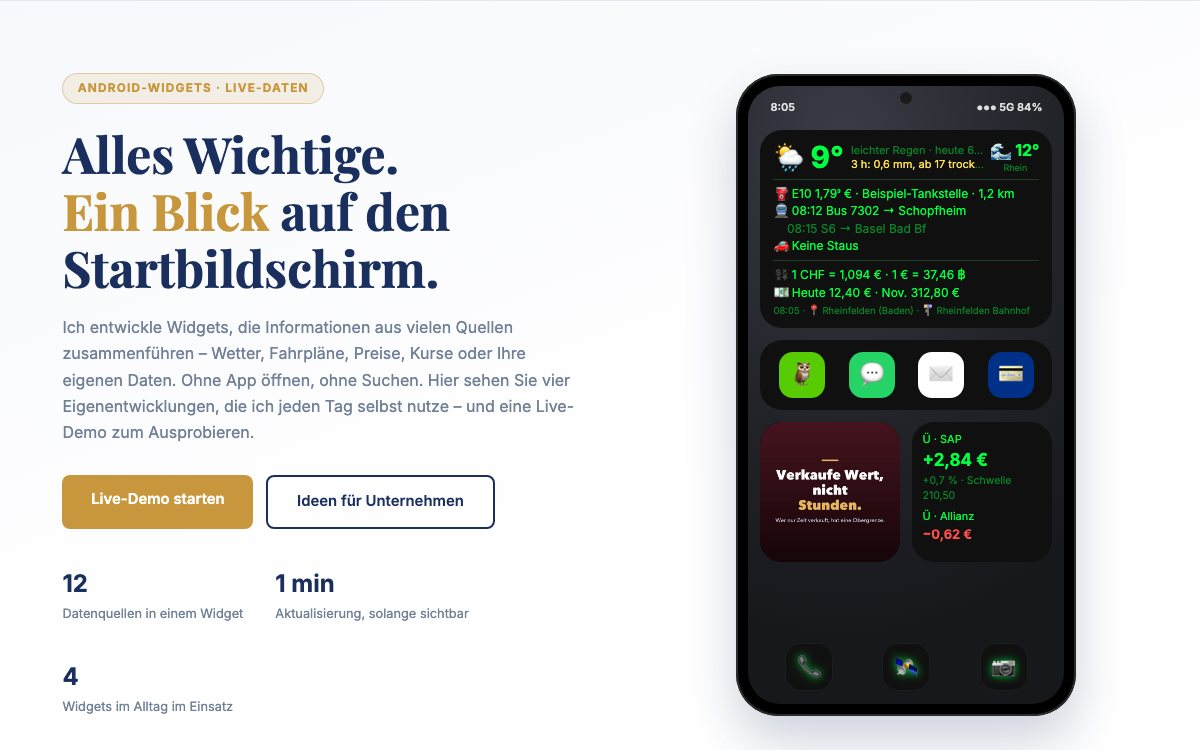
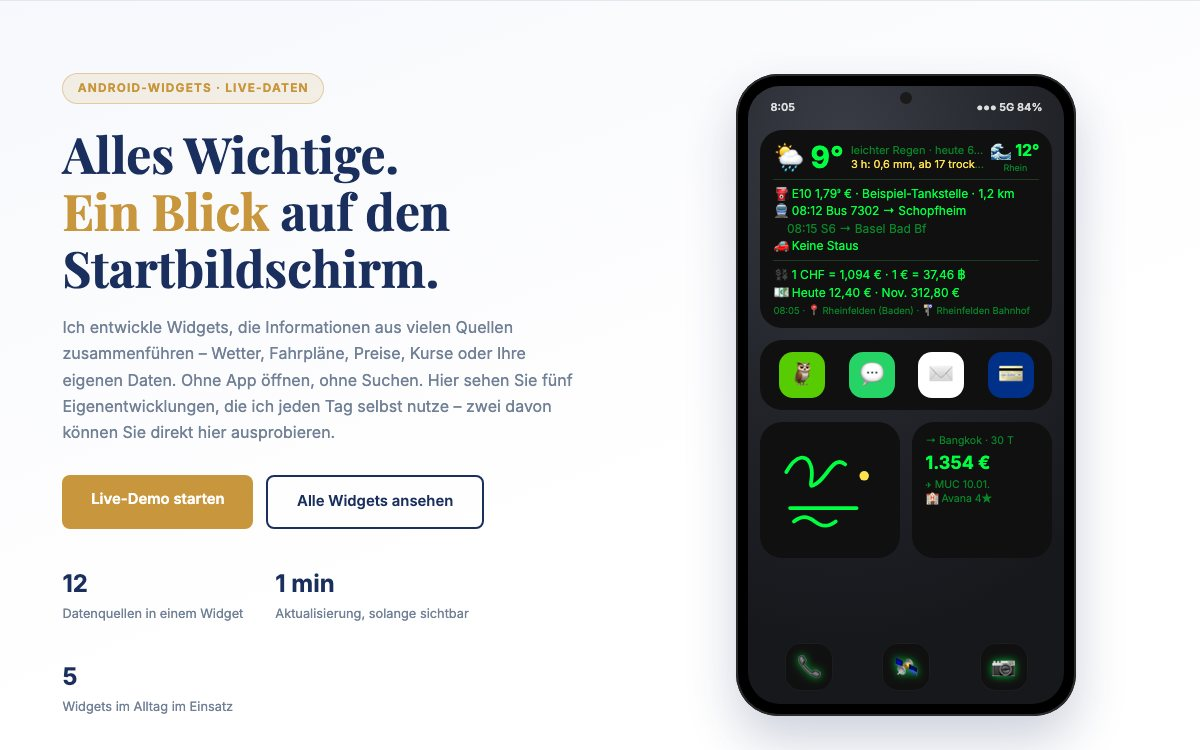
Widget-Seite: Whiteboard (zum Ausprobieren) und Reise-Planer statt Trades und Unternehmens-Beispielen

diff --git a/widgets/index.html b/widgets/index.html
@@ -128,25 +128,25 @@
   .app.done small { color: var(--w-green); }
   @keyframes spin { to { transform: rotate(360deg); } }
 
-  /* Trades */
-  .trade-w .row { display: flex; justify-content: space-between; gap: 8px; align-items: baseline; margin-top: 7px; }
-  .trade-w .name { color: var(--w-green); font-size: 13px; }
-  .trade-w .pl { font-weight: 700; font-size: 13px; }
-  .trade-w .det { color: var(--w-dark); font-size: 10.5px; }
-  .trade-w .total { font-size: 21px; font-weight: 700; }
-  .neg { color: var(--w-red) !important; } .pos { color: var(--w-green) !important; }
+  /* Whiteboard */
+  .board-wrap { position: relative; aspect-ratio: 1; border-radius: 22px; overflow: hidden; background: var(--w-bg); touch-action: none; }
+  #board { width: 100%; height: 100%; display: block; cursor: crosshair; touch-action: none; }
+  .board-hint { position: absolute; left: 0; right: 0; bottom: 10px; text-align: center; color: var(--w-dark); font-size: 12px; pointer-events: none; transition: opacity .3s; }
+  .board-tools { display: flex; gap: 6px; align-items: center; justify-content: center; background: #101010; border: 1px solid var(--w-line); border-radius: 20px; padding: 6px 8px; }
+  .board-tools button { width: 20px; height: 20px; border-radius: 50%; border: 2px solid transparent; cursor: pointer; padding: 0; }
+  .board-tools button.sel { border-color: #fff; }
+  .board-tools button.tool { background: none; width: 26px; font-size: 15px; border: none; }
+  .board-tools button.tool.sel { outline: 1px solid var(--w-green); border-radius: 8px; }
+  .board-mini svg { width: 100%; display: block; }
 
-  /* Für Unternehmen */
-  .biz { background: var(--bg); }
-  .biz-grid { display: grid; grid-template-columns: repeat(auto-fill, minmax(240px, 1fr)); gap: 1.4rem; }
-  .biz-card { background: #fff; border: 1px solid var(--border); border-radius: var(--radius); padding: 1.2rem; box-shadow: var(--shadow); }
-  .biz-card h4 { color: var(--navy); margin: .9rem 0 .3rem; }
-  .biz-card p { font-size: .87rem; color: var(--muted); }
-  .mini { background: var(--w-bg); color: var(--w-green); border-radius: 16px; padding: 11px 12px; font-size: 12px; line-height: 1.5; }
-  .mini b { font-size: 15px; }
-  .mini .muted { color: var(--w-dark); }
-  .meter { height: 7px; background: #1d1d1d; border-radius: 4px; overflow: hidden; margin: 5px 0 3px; }
-  .meter i { display: block; height: 100%; background: var(--w-green); border-radius: 4px; }
+  /* Reise-Planer */
+  .trip-w .rt { color: var(--w-dark); font-size: 10.5px; display: flex; justify-content: space-between; }
+  .trip-w .c { margin-top: 7px; padding-top: 6px; border-top: 1px solid var(--w-line); }
+  .trip-w .c:first-of-type { border-top: 0; padding-top: 0; }
+  .trip-w .t { font-weight: 700; font-size: 13.5px; white-space: nowrap; overflow: hidden; text-overflow: ellipsis; }
+  .trip-w .d { color: #b0b0b0; font-size: 10.5px; white-space: nowrap; overflow: hidden; text-overflow: ellipsis; }
+  .trip-mini b { font-size: 18px; display: block; margin: 2px 0; }
+  .trip-mini .muted, .trip-w .muted { color: var(--w-dark); font-size: 10.5px; line-height: 1.35; }
 
   /* Ablauf */
   .steps { display: grid; grid-template-columns: repeat(auto-fit, minmax(230px, 1fr)); gap: 1.4rem; counter-reset: s; }
@@ -188,7 +188,6 @@
     <ul class="nav-links">
       <li><a href="#live">Live-Demo</a></li>
       <li><a href="#beispiele">Beispiele</a></li>
-      <li><a href="#unternehmen">Für Unternehmen</a></li>
       <li><a href="/#kontakt" class="nav-cta">Kontakt</a></li>
     </ul>
   </div>
@@ -200,15 +199,15 @@
     <div>
       <div class="hero-badge">Android-Widgets · Live-Daten</div>
       <h1>Alles Wichtige.<br><span>Ein Blick</span> auf den Startbildschirm.</h1>
-      <p>Ich entwickle Widgets, die Informationen aus vielen Quellen zusammenführen – Wetter, Fahrpläne, Preise, Kurse oder Ihre eigenen Daten. Ohne App öffnen, ohne Suchen. Hier sehen Sie vier Eigenentwicklungen, die ich jeden Tag selbst nutze – und eine Live-Demo zum Ausprobieren.</p>
+      <p>Ich entwickle Widgets, die Informationen aus vielen Quellen zusammenführen – Wetter, Fahrpläne, Preise, Kurse oder Ihre eigenen Daten. Ohne App öffnen, ohne Suchen. Hier sehen Sie fünf Eigenentwicklungen, die ich jeden Tag selbst nutze – zwei davon können Sie direkt hier ausprobieren.</p>
       <div class="hero-actions">
         <a href="#live" class="btn btn-primary">Live-Demo starten</a>
-        <a href="#unternehmen" class="btn btn-outline">Ideen für Unternehmen</a>
+        <a href="#beispiele" class="btn btn-outline">Alle Widgets ansehen</a>
       </div>
       <div class="hero-facts">
         <div><strong>12</strong>Datenquellen in einem Widget</div>
         <div><strong>1 min</strong>Aktualisierung, solange sichtbar</div>
-        <div><strong>4</strong>Widgets im Alltag im Einsatz</div>
+        <div><strong>5</strong>Widgets im Alltag im Einsatz</div>
       </div>
     </div>
     <div class="hero-phone">
@@ -222,10 +221,8 @@
           <div class="app todo"><div class="ico" style="background:#003087">💳</div></div>
         </div>
         <div style="display:grid;grid-template-columns:1fr 1fr;gap:12px">
-          <div class="photo-w"><img src="img/11_wert.jpg" alt="" class="on"></div>
-          <div class="w trade-w" style="padding:10px"><div class="name" style="font-size:11px">Ü · SAP</div>
-            <div class="pl pos" style="font-size:17px">+2,84 €</div><div class="det">+0,7 % · Schwelle 210,50</div>
-            <div class="name" style="font-size:11px;margin-top:6px">Ü · Allianz</div><div class="pl neg">−0,62 €</div></div>
+          <div class="w board-mini"><svg viewBox="0 0 120 120"><path d="M14 40c10-18 22-20 26-6s-6 26 6 18 18-30 30-20M18 78h70M22 92c8-6 14-6 22 0s14 6 22 0" fill="none" stroke="#00FF41" stroke-width="4" stroke-linecap="round"/><circle cx="96" cy="44" r="5" fill="#FFE14D"/></svg></div>
+          <div class="w trip-mini"><div class="muted">→ Bangkok · 30 T</div><b>1.354 €</b><div class="muted">✈ MUC 10.01.<br>🏨 Avana 4★</div></div>
         </div>
         <div class="dock"><span><i>📞</i></span><span><i>🛰</i></span><span><i>📷</i></span></div>
       </div></div>
@@ -276,10 +273,55 @@
 <section id="beispiele">
   <div class="container">
     <div class="section-tag">Eigenentwicklungen</div>
-    <h2 class="section-title">Drei weitere Widgets aus meinem Alltag</h2>
+    <h2 class="section-title">Vier weitere Widgets aus meinem Alltag</h2>
     <p class="section-sub">Jedes ist aus einem echten Bedürfnis entstanden – genau so, wie Kundenprojekte entstehen. Alle laufen täglich auf meinem Smartphone; sie sind Eigenentwicklungen und nicht im Play Store. Probieren Sie die Vorschauen aus.</p>
 
     <div class="cases">
+      <div class="case">
+        <div class="case-phone"><div class="phone"><div class="screen">
+          <div class="statusbar"><span>09:12</span><span>●●● 5G 88%</span></div>
+          <div class="board-wrap">
+            <canvas id="board" aria-label="Whiteboard zum Ausprobieren"></canvas>
+            <div class="board-hint" id="boardHint">✎ Hier schreiben</div>
+          </div>
+          <div class="board-tools" id="boardTools">
+            <button data-c="#00FF41" class="sel" aria-label="Grün"></button><button data-c="#FFFFFF" aria-label="Weiß"></button><button data-c="#00CCFF" aria-label="Blau"></button><button data-c="#FFE14D" aria-label="Gelb"></button><button data-c="#FF4D4D" aria-label="Rot"></button>
+            <button data-t="erase" class="tool" aria-label="Radieren">🧽</button><button data-t="clear" class="tool" aria-label="Alles löschen">🗑</button>
+          </div>
+          <div class="dock"><span><i>📞</i></span><span><i>🛰</i></span><span><i>📷</i></span></div>
+        </div></div></div>
+        <div>
+          <div class="case-tag">Whiteboard · zum Ausprobieren</div>
+          <h3>Notizen mit dem Stift – direkt auf dem Startbildschirm</h3>
+          <p>Stift raus, aufs Widget tippen, schreiben. Die Tafel öffnet sich genau an der Stelle des Widgets, als würde man direkt darauf schreiben. Alles wird sofort gespeichert und bleibt bearbeitbar – fertige Notizen landen im Archiv und als Bild in der Galerie.</p>
+          <ul>
+            <li>Druckstärke des Stifts, Handballen wird ignoriert</li>
+            <li>Radieren mit der Stifttaste, Rückgängig, fünf Farben</li>
+            <li>Archiv: alte Tafeln wieder öffnen und weiterschreiben</li>
+          </ul>
+          <span class="try">Probieren Sie es im Handy aus – mit Maus, Finger oder Stift.</span>
+        </div>
+      </div>
+
+      <div class="case">
+        <div class="case-phone"><div class="phone"><div class="screen">
+          <div class="statusbar"><span>07:00</span><span>●●● 5G 93%</span></div>
+          <div class="w trip-w" id="tripW"></div>
+          <div class="dock"><span><i>📞</i></span><span><i>🛰</i></span><span><i>📷</i></span></div>
+        </div></div></div>
+        <div>
+          <div class="case-tag">Reise-Planer</div>
+          <h3>Flug und Unterkunft – als Gesamtreise verglichen</h3>
+          <p>Frühester Abflug, Zeitfenster und Aufenthaltsdauer einstellen – zum Beispiel 30 Tage Bangkok, Abflug irgendwann zwischen Ende Dezember und Ende Januar. Der Planer sucht täglich die günstigsten Flüge ab allen gewählten Flughäfen, prüft sie live, erkennt den tatsächlichen Ankunftstag und sucht für genau diesen Aufenthalt passende Hotels. Ganz oben steht die günstigste Gesamtreise.</p>
+          <ul>
+            <li>Flüge aus mehreren Quellen, die besten live bei Google Flights geprüft</li>
+            <li>Hotels über alle großen Portale – nach Sternen, Preis und Lage gefiltert</li>
+            <li>Täglich aktualisiert, Preisalarm unter dem eigenen Budget</li>
+          </ul>
+          <span class="try">Im Handy: echte Suche vom 10.11.2026 – München/Berlin → Bangkok, 30 Tage.</span>
+        </div>
+      </div>
+
       <div class="case">
         <div class="case-phone"><div class="phone"><div class="screen">
           <div class="statusbar"><span>21:14</span><span>●●● 5G 62%</span></div>
@@ -300,7 +342,7 @@
             <li>Bildausschnitt und Anzeigedauer pro Bild einstellbar</li>
             <li>Akkuschonend: läuft nur, solange der Startbildschirm sichtbar ist</li>
           </ul>
-          <span class="try">Die Vorschau links wechselt automatisch.</span>
+          <span class="try">Die Vorschau im Handy wechselt automatisch.</span>
         </div>
       </div>
 
@@ -319,58 +361,14 @@
             <li>Passende Dock-Symbole im selben Look</li>
             <li>Bis zu 30 Apps auf der Fläche einer Zeile</li>
           </ul>
-          <span class="try">Tippen Sie links auf ein sich drehendes Symbol.</span>
+          <span class="try">Tippen Sie im Handy auf ein sich drehendes Symbol.</span>
         </div>
       </div>
 
-      <div class="case">
-        <div class="case-phone"><div class="phone"><div class="screen">
-          <div class="statusbar"><span>14:31</span><span>●●● 5G 71%</span></div>
-          <div class="w trade-w" id="tradeW"></div>
-          <div class="dock"><span><i>📞</i></span><span><i>🛰</i></span><span><i>📷</i></span></div>
-        </div></div></div>
-        <div>
-          <div class="case-tag">Trades</div>
-          <h3>Gewinn oder Verlust – nach allen Kosten</h3>
-          <p>Zeigt für jede Position, was beim Verkauf in diesem Moment wirklich übrig bliebe: Geldkurs, Gebühren und Spanne eingerechnet. Dazu die Gewinnschwelle – der Kurs, ab dem man tatsächlich im Plus ist – und ein Übungsmodus ohne echtes Geld.</p>
-          <ul>
-            <li>Kurse der Börse, über die der Broker handelt</li>
-            <li>Minütliche Aktualisierung, solange sichtbar</li>
-            <li>Bilanz: Trefferquote, Summe, Durchschnitt</li>
-          </ul>
-          <span class="try">Vorschau mit simulierten Kursen und Beispieldaten.</span>
-        </div>
-      </div>
     </div>
   </div>
 </section>
 
-<!-- FÜR UNTERNEHMEN -->
-<section class="biz" id="unternehmen">
-  <div class="container">
-    <div class="section-tag">Für Unternehmen</div>
-    <h2 class="section-title">Ihr Unternehmen – täglich auf dem Startbildschirm Ihrer Kunden</h2>
-    <p class="section-sub">Eine App öffnet man selten. Ein Widget sieht man jeden Tag, Dutzende Male. Vier Ideen, wie das für Ihr Geschäft aussehen kann:</p>
-    <div class="biz-grid">
-      <div class="biz-card">
-        <div class="mini"><span class="muted">Ihr Restaurant · heute</span><br><b>Kürbis-Risotto</b> · 13,90 €<br><span class="muted">Mittagstisch 11:30–14:00 · noch frei ✓</span></div>
-        <h4>Restaurant &amp; Café</h4><p>Tagesgericht, Öffnungszeiten und freie Tische – mit einem Tipp reservieren.</p>
-      </div>
-      <div class="biz-card">
-        <div class="mini"><span class="muted">Ihr Fitnessstudio · jetzt</span><br><b>Auslastung 34 %</b><div class="meter"><i style="width:34%"></i></div><span class="muted">ruhiger ab 20 Uhr</span></div>
-        <h4>Fitnessstudio</h4><p>Live-Auslastung und Kursplan – Mitglieder kommen, wenn es leer ist.</p>
-      </div>
-      <div class="biz-card">
-        <div class="mini"><span class="muted">Ihr Handwerksbetrieb</span><br><b>Termin morgen 8:00</b><br><span class="muted">Team unterwegs · ca. 15 min</span></div>
-        <h4>Handwerk &amp; Service</h4><p>Termin, Anfahrt und Auftragsstatus – weniger Rückfragen am Telefon.</p>
-      </div>
-      <div class="biz-card">
-        <div class="mini"><span class="muted">Ihr Verein</span><br><b>Sa 15:00 · Heimspiel</b><br><span class="muted">Letztes Spiel 2:1 ✓ · Tabellenplatz 3</span></div>
-        <h4>Verein</h4><p>Nächstes Spiel, Ergebnisse und Neuigkeiten – Mitglieder bleiben dran.</p>
-      </div>
-    </div>
-  </div>
-</section>
 
 <!-- ABLAUF -->
 <section>
@@ -389,8 +387,8 @@
 
 <section class="cta">
   <div class="container">
-    <h2>Welche Information gehört auf den Startbildschirm Ihrer Kunden?</h2>
-    <p>Erzählen Sie mir von Ihrer Idee – im kostenlosen Erstgespräch prüfen wir, welche Daten es gibt und was ein Widget kosten würde.</p>
+    <h2>Eine Idee für ein eigenes Widget oder eine App?</h2>
+    <p>Ob Tagesangebot für Ihre Kunden, Kennzahlen für Ihr Team oder etwas ganz Eigenes – im kostenlosen Erstgespräch prüfen wir, welche Daten es gibt und was die Umsetzung kosten würde.</p>
     <a href="/#kontakt" class="btn btn-primary">Kostenloses Erstgespräch</a>
   </div>
 </section>
@@ -622,28 +620,73 @@ $('btnGeo').onclick = () => {
   }));
 })();
 
-/* ── Trades: simulierte Kurse ──────────────────────────────────────────── */
+/* ── Whiteboard zum Ausprobieren ──────────────────────────────────────── */
 (() => {
-  const fee = 1;
-  const pos = [
-    { name: 'Ü · SAP', qty: 2, buy: 420.0, bid: 208.95, spread: .55 },
-    { name: 'Ü · Allianz', qty: 1, buy: 352.4, bid: 354.10, spread: .3 },
-    { name: 'Ü · MSCI World', qty: 4, buy: 437.8, bid: 109.42, spread: .05 },
+  const cv = $('board'), hint = $('boardHint'), ctx = cv.getContext('2d');
+  let color = '#00FF41', erase = false, last = null, used = false;
+  const fit = () => {
+    const r = cv.getBoundingClientRect(), d = window.devicePixelRatio || 1;
+    const img = cv.width ? ctx.getImageData(0, 0, cv.width, cv.height) : null;
+    cv.width = r.width * d; cv.height = r.height * d; ctx.scale(d, d);
+    ctx.fillStyle = '#101010'; ctx.fillRect(0, 0, r.width, r.height);
+    if (img) ctx.putImageData(img, 0, 0);
+  };
+  fit(); window.addEventListener('resize', fit);
+  // Beispiel-Notiz: kleine To-do-Liste mit Häkchen, wie von Hand geschrieben
+  (() => {
+    const r = cv.getBoundingClientRect(), w = r.width, h = r.height;
+    const pen = (col, lw, pts) => {
+      ctx.strokeStyle = col; ctx.lineWidth = lw; ctx.lineCap = 'round'; ctx.lineJoin = 'round';
+      ctx.shadowColor = col; ctx.shadowBlur = 4; ctx.beginPath();
+      pts.forEach(([x, y], i) => i ? ctx.lineTo(x * w, y * h) : ctx.moveTo(x * w, y * h)); ctx.stroke();
+    };
+    const wave = (x0, x1, y) => { const p = []; for (let x = x0; x <= x1; x += 0.012) p.push([x, y + 0.012 * Math.sin(x * 70) + 0.006 * Math.sin(x * 23)]); return p; };
+    pen('#FFFFFF', 3, wave(0.12, 0.55, 0.16));                    // „Überschrift“
+    pen('#00FF41', 3, [[0.12, 0.31], [0.16, 0.35], [0.24, 0.25]]); // ✓
+    pen('#00FF41', 2.5, wave(0.30, 0.78, 0.30));
+    pen('#00FF41', 3, [[0.12, 0.46], [0.16, 0.50], [0.24, 0.40]]); // ✓
+    pen('#00FF41', 2.5, wave(0.30, 0.70, 0.45));
+    pen('#FFE14D', 2.5, [[0.13, 0.57], [0.23, 0.57], [0.23, 0.65], [0.13, 0.65], [0.13, 0.57]]); // ☐
+    pen('#FFE14D', 2.5, wave(0.30, 0.82, 0.61));
+    pen('#00CCFF', 3, [[0.62, 0.80], [0.70, 0.74], [0.80, 0.82], [0.88, 0.76]]);   // Kringel unten rechts
+    ctx.shadowBlur = 0;
+  })();
+  const pos = e => { const r = cv.getBoundingClientRect(); return [e.clientX - r.left, e.clientY - r.top]; };
+  cv.addEventListener('pointerdown', e => {
+    cv.setPointerCapture(e.pointerId); last = pos(e);
+    if (!used) { used = true; hint.style.opacity = 0; }
+  });
+  cv.addEventListener('pointermove', e => {
+    if (!last) return;
+    const p = pos(e), pr = e.pointerType === 'pen' && e.pressure > 0 ? e.pressure : 0.5;
+    ctx.lineCap = 'round'; ctx.lineJoin = 'round';
+    ctx.strokeStyle = erase ? '#101010' : color;
+    ctx.lineWidth = erase ? 22 : 2 + pr * 4;
+    if (!erase) { ctx.shadowColor = color; ctx.shadowBlur = 4; } else ctx.shadowBlur = 0;
+    ctx.beginPath(); ctx.moveTo(...last); ctx.lineTo(...p); ctx.stroke();
+    last = p;
+  });
+  ['pointerup', 'pointercancel', 'pointerleave'].forEach(t => cv.addEventListener(t, () => last = null));
+  document.querySelectorAll('#boardTools button').forEach(b => b.addEventListener('click', () => {
+    if (b.dataset.t === 'clear') { const r = cv.getBoundingClientRect(); ctx.fillStyle = '#101010'; ctx.fillRect(0, 0, r.width, r.height); return; }
+    document.querySelectorAll('#boardTools button').forEach(x => x.classList.remove('sel'));
+    b.classList.add('sel');
+    if (b.dataset.t === 'erase') erase = true; else { erase = false; color = b.dataset.c; }
+  }));
+  document.querySelectorAll('#boardTools button[data-c]').forEach(b => b.style.background = b.dataset.c);
+})();
+
+/* ── Reise-Planer: echte Suche vom 10.11.2026 ─────────────────────────── */
+(() => {
+  const combos = [
+    { total: 1354, route: 'MUC 10.01.–10.02.', days: 29, flight: '616 € Oman Air', hotel: '738 € Avana Bangkok Hotel 4–5★' },
+    { total: 1439, route: 'BER 11.01.–11.02.', days: 30, flight: '675 € Qatar Airways', hotel: '764 € Avana Bangkok Hotel 4–5★' },
+    { total: 1470, route: 'BER 15.01.–15.02.', days: 30, flight: '706 € Hainan Airlines', hotel: '764 € Avana Bangkok Hotel 4–5★' },
   ];
-  const el = $('tradeW');
-  function draw() {
-    let sum = 0;
-    const rows = pos.map(p => {
-      const pl = p.qty * p.bid - fee - p.buy; sum += pl;
-      const be = (p.buy + fee) / p.qty;
-      return `<div class="row"><span class="name">${p.name}</span><span class="pl ${pl >= 0 ? 'pos' : 'neg'}">${pl >= 0 ? '+' : '−'}${fmt(Math.abs(pl), 2)} €</span></div>
-        <div class="det">${pl >= 0 ? '+' : '−'}${fmt(Math.abs(pl / p.buy * 100), 1)} % · Schwelle ${fmt(be, 2)} · Geld ${fmt(p.bid, 2)}</div>`;
-    }).join('');
-    el.innerHTML = `<div style="display:flex;justify-content:space-between"><span class="total ${sum >= 0 ? 'pos' : 'neg'}">Übung ${sum >= 0 ? '+' : '−'}${fmt(Math.abs(sum), 2)} €</span><span>⟳</span></div>
-      ${rows}<div class="w-stamp" style="margin-top:8px">Stand ${new Date().toLocaleTimeString('de-DE', { hour: '2-digit', minute: '2-digit' })} · Lang &amp; Schwarz · simuliert</div>`;
-  }
-  draw();
-  setInterval(() => { pos.forEach(p => { p.bid *= 1 + (Math.random() - .48) * .004; }); draw(); }, 2500);
+  $('tripW').innerHTML = `<div class="rt"><span>→ Bangkok · 30 Tage · Abflug 29.12.–29.01. · ab 4★</span><span style="color:var(--w-green)">⟳</span></div>` +
+    combos.map((c, i) => `<div class="c"><div class="t">${i + 1}. ${fmt(c.total)} €  ·  ${c.route} · ${c.days} T</div>
+      <div class="d">✈ ${c.flight}  ·  🏨 ${c.hotel}</div></div>`).join('') +
+    `<div class="w-stamp" style="margin-top:8px">Stand 10.11. 12:10 · täglich aktualisiert</div>`;
 })();
 </script>
 </body>

diff --git a/index.html b/index.html
@@ -388,7 +388,7 @@
       </div>
       <div class="project-card">
         <div class="project-gallery" data-gallery="widgets">
-          <div class="pg-track"><div class="pg-slide"><img src="img/projekte/widgets-1.jpg" alt="Widget-Übersicht auf dem Startbildschirm" loading="lazy" width="1200" height="750"></div><div class="pg-slide"><img src="img/projekte/widgets-2.jpg" alt="Live-Demo des Grenz-Cockpits mit Wetter, Regen, Abfahrten und Kursen" loading="lazy" width="1200" height="750"></div><div class="pg-slide"><img src="img/projekte/widgets-3.jpg" alt="App-Leiste mit täglichen Routinen" loading="lazy" width="1200" height="750"></div><div class="pg-slide"><img src="img/projekte/widgets-4.jpg" alt="Trades-Widget mit Gewinn nach Kosten" loading="lazy" width="1200" height="750"></div><div class="pg-slide"><img src="img/projekte/widgets-5.jpg" alt="Widget-Ideen für Unternehmen" loading="lazy" width="1200" height="750"></div></div>
+          <div class="pg-track"><div class="pg-slide"><img src="img/projekte/widgets-1.jpg" alt="Widget-Übersicht auf dem Startbildschirm" loading="lazy" width="1200" height="750"></div><div class="pg-slide"><img src="img/projekte/widgets-2.jpg" alt="Live-Demo des Grenz-Cockpits mit Wetter, Regen, Abfahrten und Kursen" loading="lazy" width="1200" height="750"></div><div class="pg-slide"><img src="img/projekte/widgets-3.jpg" alt="App-Leiste mit täglichen Routinen" loading="lazy" width="1200" height="750"></div><div class="pg-slide"><img src="img/projekte/widgets-4.jpg" alt="Whiteboard-Widget zum Ausprobieren" loading="lazy" width="1200" height="750"></div><div class="pg-slide"><img src="img/projekte/widgets-5.jpg" alt="Reise-Planer mit Flug und Hotel als Gesamtreise" loading="lazy" width="1200" height="750"></div></div>
           <button type="button" class="pg-arrow pg-prev" aria-label="Vorheriges Bild">‹</button>
           <button type="button" class="pg-arrow pg-next" aria-label="Nächstes Bild">›</button>
           <div class="pg-dots"><button type="button" class="pg-dot is-active" aria-label="Bild 1" data-i="0"></button><button type="button" class="pg-dot" aria-label="Bild 2" data-i="1"></button><button type="button" class="pg-dot" aria-label="Bild 3" data-i="2"></button><button type="button" class="pg-dot" aria-label="Bild 4" data-i="3"></button><button type="button" class="pg-dot" aria-label="Bild 5" data-i="4"></button></div>
@@ -396,7 +396,7 @@
         <div class="project-body">
           <div class="project-tag">Android-Widgets · Eigenentwicklung · Live-Demo</div>
           <h3>Widgets mit Live-Daten</h3>
-          <p>Vier Widgets aus meinem Alltag: ein Cockpit mit zwölf Datenquellen (Wetter, Regen in mm, Rheintemperatur, Abfahrten, Kurse), eine Foto-Diashow, eine App-Leiste mit täglichen Routinen und ein Trade-Monitor nach allen Kosten – mit Live-Demo für Ihren Standort.</p>
+          <p>Fünf Widgets aus meinem Alltag: ein Cockpit mit zwölf Datenquellen (Wetter, Regen in mm, Rheintemperatur, Abfahrten, Kurse), ein Whiteboard für Stift-Notizen, ein Reise-Planer, der Flug und Hotel als Gesamtreise vergleicht, eine Foto-Diashow und eine App-Leiste mit täglichen Routinen – zum Teil direkt auf der Seite ausprobierbar.</p>
           <a class="project-link" href="/widgets/">Widgets &amp; Live-Demo ansehen →</a>
         </div>
       </div>
